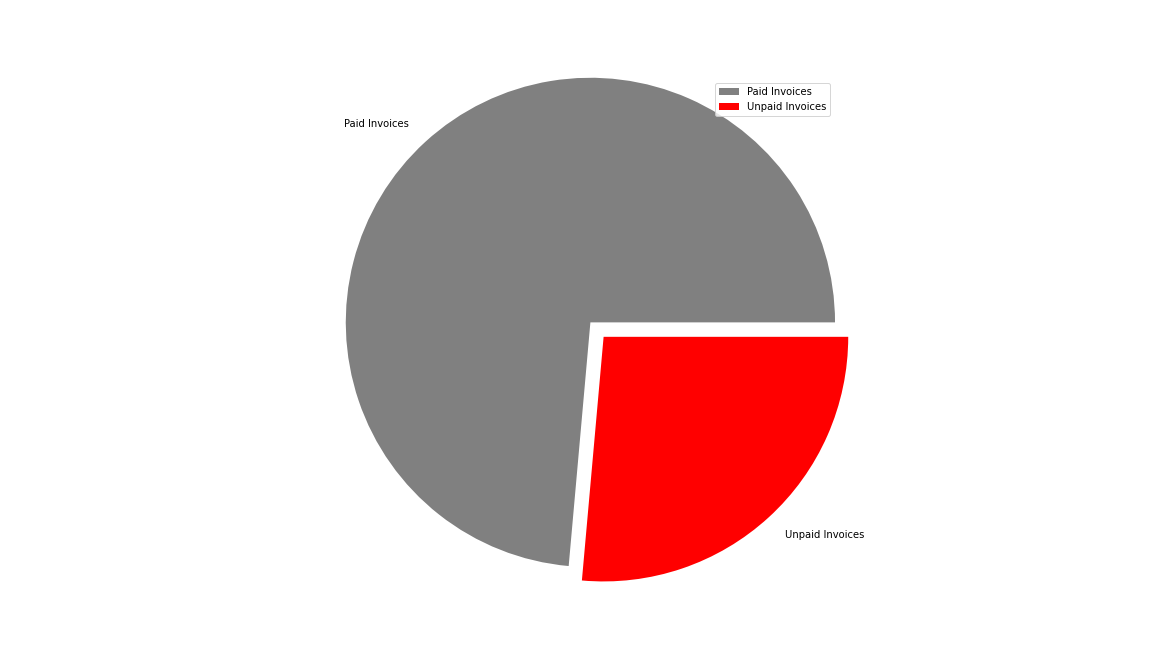
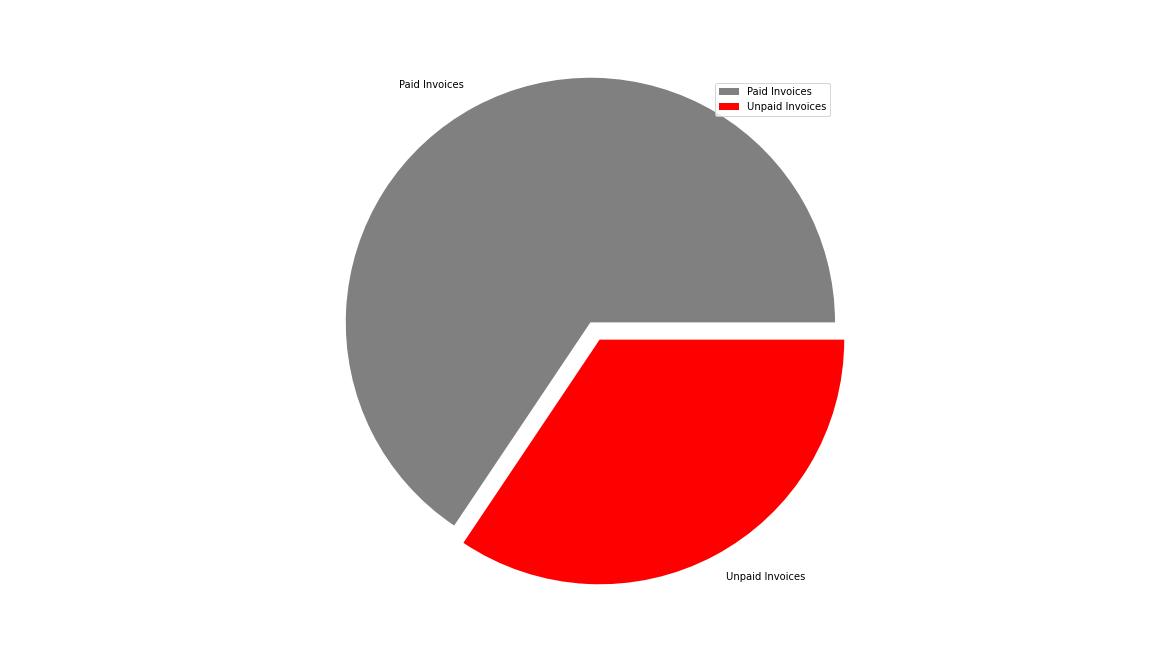
2022.07.17 data updates

diff --git a/seed.py b/seed.py
@@ -1,4 +1,3 @@
-import imp
 from faker import Faker
 from flask import jsonify
 import requests
@@ -14,7 +13,7 @@ engine = create_engine('postgresql://postgres@localhost:5432/billit')
 Session = sessionmaker(bind=engine)
 Base = declarative_base()
 
-companies = 1
+'''companies = 80
 for i in range(companies):
     company_name = fake.company()
     contact_name = fake.name()
@@ -22,23 +21,26 @@ for i in range(companies):
     addresses = fake.street_address()
     cities = fake.city()
     states = fake.random_elements(elements=('AK', 'AL', 'AR', 'AZ', 'CA', 'CO', 'CT', 'DC', 'DE', 'FL', 'GA',
-           'HI', 'IA', 'ID', 'IL', 'IN', 'KS', 'KY', 'LA', 'MA', 'MD', 'ME',
-           'MI', 'MN', 'MO', 'MS', 'MT', 'NC', 'ND', 'NE', 'NH', 'NJ', 'NM',
-           'NV', 'NY', 'OH', 'OK', 'OR', 'PA', 'RI', 'SC', 'SD', 'TN', 'TX',
-           'UT', 'VA', 'VT', 'WA', 'WI', 'WV', 'WY'), length=1, unique=False)
+                                            'HI', 'IA', 'ID', 'IL', 'IN', 'KS', 'KY', 'LA', 'MA', 'MD', 'ME',
+                                            'MI', 'MN', 'MO', 'MS', 'MT', 'NC', 'ND', 'NE', 'NH', 'NJ', 'NM',
+                                            'NV', 'NY', 'OH', 'OK', 'OR', 'PA', 'RI', 'SC', 'SD', 'TN', 'TX',
+                                            'UT', 'VA', 'VT', 'WA', 'WI', 'WV', 'WY'), length=1, unique=False)
     zipcodes = fake.postcode()
-    stmt = insert(ClientModel).values(company=company_name, contact=contact_name, email=emails, address=addresses, city=cities, state=states, zipcode=zipcodes)
+    stmt = insert(ClientModel).values(company=company_name, contact=contact_name,
+                                      email=emails, address=addresses, city=cities, state=states, zipcode=zipcodes)
+    with engine.connect() as conn:
+        conn.execute(stmt)'''
+
+invoices = 125
+for i in range(invoices):
+    clients = fake.random_int(min=1, max=80)
+    dates_sent = fake.date_between(start_date='-45d', end_date='-30d')
+    dates_paid = fake.date_between(start_date='-29d', end_date='-1d')
+    amounts = fake.pydecimal(
+        left_digits=4, right_digits=2, positive=True, min_value=100.00)
+    services_rendered = fake.sentence(nb_words=12, variable_nb_words=True)
+    paid_bills = fake.boolean(chance_of_getting_true=65)
+    stmt = insert(InvoiceModel).values(client=clients, date_sent=dates_sent,
+                                       date_paid=dates_paid, amount=amounts, services=services_rendered, paid=paid_bills)
     with engine.connect() as conn:
         conn.execute(stmt)
-
-#invoices = 250
-#for i in range(invoices):
-#    clients = fake.random_int(min=1, max=100)
-#    dates_sent = fake.date_between(start_date='-45d', end_date='-30d')
-#    dates_paid = fake.date_between(start_date='-29d', end_date='-1d')
-#    amounts = fake.pydecimal(left_digits=4, right_digits=2, positive=True, min_value=100.00)
-#    services_rendered = fake.sentence(nb_words=12, variable_nb_words=True)
-#    paid_bills = fake.boolean(chance_of_getting_true=65)
-#    stmt = insert(InvoiceModel).values(client=clients, date_sent=dates_sent, date_paid=dates_paid, amount=amounts, services=services_rendered, paid=paid_bills)
-#    with engine.connect() as conn:
-#        conn.execute(stmt)

diff --git a/migrations/versions/b48ad2d8a972_.py b/migrations/versions/b48ad2d8a972_.py
@@ -1,8 +1,8 @@
 """empty message
 
-Revision ID: 98e2e3aca002
+Revision ID: b48ad2d8a972
 Revises: 
-Create Date: 2022-06-20 14:28:04.533361
+Create Date: 2022-07-17 11:34:48.382221
 
 """
 from alembic import op
@@ -10,7 +10,7 @@ import sqlalchemy as sa
 
 
 # revision identifiers, used by Alembic.
-revision = '98e2e3aca002'
+revision = 'b48ad2d8a972'
 down_revision = None
 branch_labels = None
 depends_on = None
